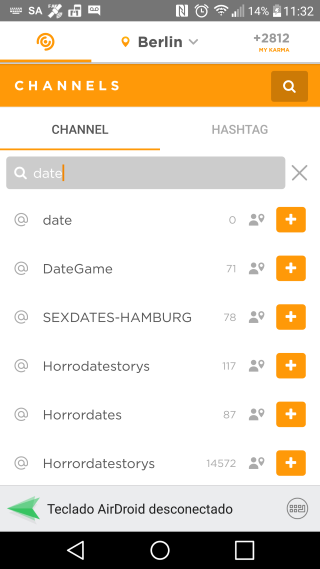
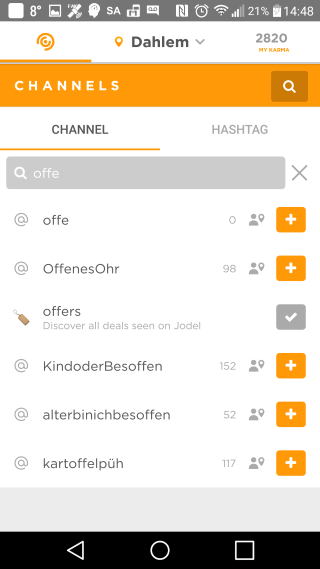
Update Conceptual Design

diff --git a/readme.md b/readme.md
@@ -96,7 +96,7 @@ A *Reply* is a Post written in answer or response to a Jodel.
 
 ![Gender Question](./gender.png)
 
-![Age Question](./age.png)
+![Birthdate Question](./birthdate.png)
 
 ![Group Question](./group.png)
 
@@ -126,12 +126,10 @@ A *Reply* is a Post written in answer or response to a Jodel.
 |                      | App retrieves the Activation Record.                         | Activation Record  | R                      | 1    |
 |                      | Server authenticates the User's Activation Record and returns a JWT Access Token, valid for 24 hours. | User, Access Token | R                      | 1    |
 |                      | App saves the Access Token in the device storage.<br/>The App will send the Access Token in the authentication header of the HTTP requests: &ldquo;Authentication: Bearer {token}&rdquo;. This authorizes the User for seeing posts, voting, posting etc. | Access Token       | W                      | 1    |
-| Location Service     | App gets User Location                                       | User Location      | E                      | 1    |
-|                      | Server updates User Location                                 | Device Location    | W                      | 1    |
 |                      | **Display Main Feed**                                        |                    |                        |      |
 | User                 | App displays error message                                   | Error message      | X                      | 1    |
 
-**Total: 7 CFP**
+**Total: 5 CFP**
 
 ### Reading Posts
 
@@ -143,11 +141,12 @@ A *Reply* is a Post written in answer or response to a Jodel.
 
 ![Refreshing Feed](./refresh.png)
 
-| Functional<br/>User | Sub-process Description                                      | Data Group      | Data<br/>Mvmt<br/>Type | CFP  |
-| ------------------- | ------------------------------------------------------------ | --------------- | ---------------------- | ---- |
-| User                | A *Feed* consists of a set of three views listing Jodels only, the Replies does not show up :<br/>&bullet; &#x1f553; **Newest**: up to 150 Jodels in reverse chronological order;<br/> &bullet; &#x1f4ac; **Most discussed**: up to 150 Jodels ordered by child count descending;<br/> &bullet;  ∧ **Loudest**: up to 150 Jodels ordered by vote count descending.<br/>The User can choose which view he wants to read by clicking one of the buttons at the bottom of the screen.<br/>The Feed is refreshed if the User swipe down on the first page. | Control Command | E                      | 1    |
-| User                | App displays a scrollable list of Jodels from the chosen view. | Jodel           | X                      | 2    |
-| User                | App displays error message                                   | Error message   | X                      | 1    |
+| Functional<br/>User | Sub-process Description                                      | Data Group                    | Data<br/>Mvmt<br/>Type | CFP  |
+| ------------------- | ------------------------------------------------------------ | ----------------------------- | ---------------------- | ---- |
+|                     | **Set Location**                                             | User Location, Dynamic Radius |                        |      |
+| User                | A *Feed* consists of a set of three views listing Jodels only, the Replies does not show up :<br/>&bullet; &#x1f553; **Newest**: up to 150 Jodels in reverse chronological order;<br/> &bullet; &#x1f4ac; **Most discussed**: up to 150 Jodels ordered by child count descending;<br/> &bullet;  ∧ **Loudest**: up to 150 Jodels ordered by vote count descending.<br/>The User can choose which view he wants to read by clicking one of the buttons at the bottom of the screen.<br/>The Feed is refreshed if the User swipe down on the first page. | Control Command               | E                      | 1    |
+| User                | App displays a scrollable list of Jodels from the chosen view. | Jodel                         | X                      | 2    |
+| User                | App displays error message                                   | Error message                 | X                      | 1    |
 
 **Total: 4 CFP**
 
@@ -425,12 +424,10 @@ A *Reply* is a Post written in answer or response to a Jodel.
 
 ![Channels](./channels.png)
 
-
-
 | Functional<br/>User | Sub-process Description                                      | Data Group    | Data<br/>Mvmt<br/>Type | CFP  |
 | ------------------- | ------------------------------------------------------------ | ------------- | ---------------------- | ---- |
 | User                | The User clicks Channels button at the top left corner of the Feed screen.<br/>The App retrieves the list of User's Channels and the list of recommended Channels (most popular Channels not followed by the User). | Channel       | R                      | 2    |
-| User                | The App displays the Channels screen with the list of User's Channels and the list of recommended Channels .<br/>If there are new Jodels in one of the User's Channels, its name is written in boldface and goes to the top of the list. | Channel       | X                      | 2    |
+| User                | The App displays the Channels screen with the list of User's Channels and the list of recommended Channels .<br/>If there are new unread Jodels in one of the User's Channels, its name is written in boldface and goes to the top of the list. | Channel       | X                      | 2    |
 | User                | App displays error message.                                  | Error message | X                      | 1    |
 
 **Total: 9 CFP**
@@ -483,4 +480,61 @@ A *Reply* is a Post written in answer or response to a Jodel.
 | User                | App displays error message                                   | Error message | X                      | 1    |
 
 **Total: 4 CFP**
+
+#### Follow / Unfollow Channel
+
+![Channel Unfollowed](./channel_unfollowed.png)
+
+
+
+![Channel Followed](./channel.png)
+
+| Functional<br/>User | Sub-process Description                                      | Data Group    | Data<br/>Mvmt<br/>Type | CFP  |
+| ------------------- | ------------------------------------------------------------ | ------------- | ---------------------- | ---- |
+| User                | On a Channel Display, the User clicks + to follow or ✓ to unfollow a Channel. | Channel       | E                      | 1    |
+|                     | App updates data base.                                       | User, Channel | W                      | 1    |
+|                     | App updates Channel Display.                                 | Channel       | X                      | 1    |
+| User                | App displays error message.                                  | Error message | X                      | 1    |
+
+**Total: 4 CFP**
+
+### Interacting with User Profile
+
+#### Set Location
+
+![Set Location](./location.png)
+
+| Functional<br/>User | Sub-process Description                                      | Data Group            | Data<br/>Mvmt<br/>Type | CFP  |
+| ------------------- | ------------------------------------------------------------ | --------------------- | ---------------------- | ---- |
+| Location Service    | App gets User current Location.                              | User Location         | E                      | 1    |
+|                     | App retrieves User Hometown.                                 | User Location         | E                      | 1    |
+| User                | User select between current location or hometown on drop down city menu. | City                  | E                      | 1    |
+|                     | App updates User Location                                    | User Location         | W                      | 1    |
+|                     | App retrieves the nearest 150 Jodels in order to determine the dynamic radius. | Post, Dynamic  Radius | R                      | 1    |
+| User                | App displays error message.                                  | Error message         | X                      | 1    |
+
+**Total: 6 CFP**
+
+#### Set Hometown
+
+![More](./more.png)
+
+![Hometown 1](./hometown1.png)
+
+![Hometown 4](./hometown4.png)
+
+![Hometown 5](./hometown5.png)
+
+| Functional<br/>User | Sub-process Description                                      | Data Group      | Data<br/>Mvmt<br/>Type | CFP  |
+| ------------------- | ------------------------------------------------------------ | --------------- | ---------------------- | ---- |
+| User                | From ME Screen, User selects More, then Hometown.<br/>In order to set the Hometown, **the User needs to be physically present in that location** to save it once and for all.<br/>The user can reset the Hometown **only once per month**. | Control Command | E                      | 1    |
+|                     | App retrieves User current Hometown.                         | User Hometown   | R                      | 1    |
+| Location Service    | App gets User current Location.                              | Location        | E                      | 1    |
+| User                | App displays current City as the new Hometown.<br/>User confirms. | City            | X                      | 1    |
+|                     | App updates the User Hometown.                               | User Hometown   | W                      | 1    |
+| User                | App displays error message.                                  | Error message   | X                      | 1    |
+
+**Total: 6 CFP**
+
+#### Display User Profile
 
